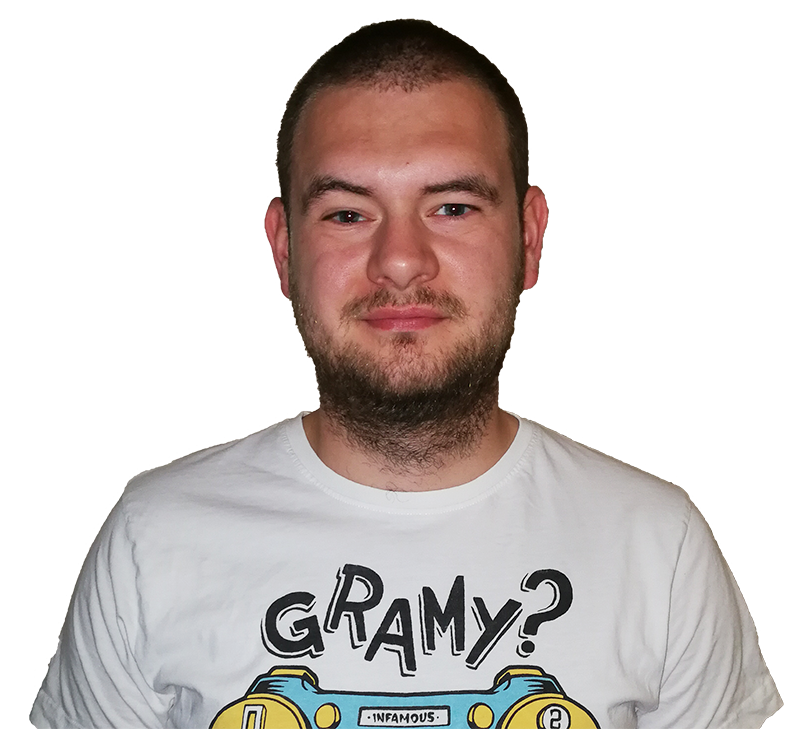
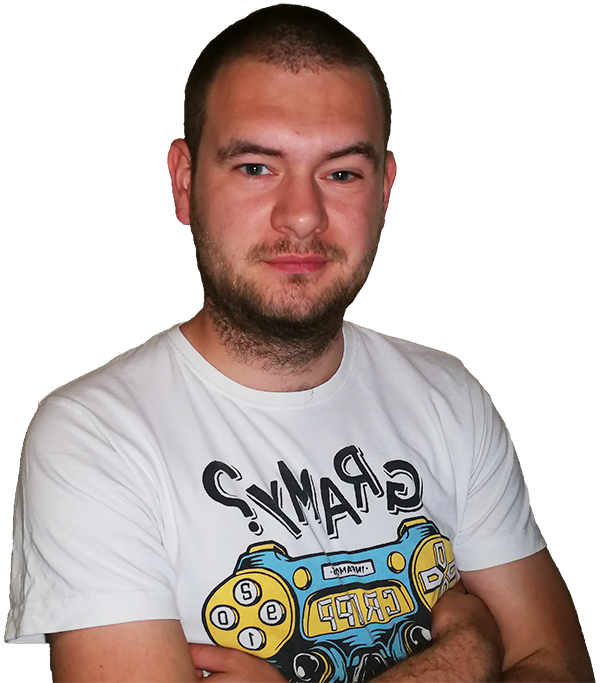
Add media queries for high resolution and change hero img

diff --git a/Frontend/src/styles/global.css b/Frontend/src/styles/global.css
@@ -203,6 +203,61 @@ p {
   }
 }
 
+/* High resolutions */
+@media screen and (min-width: 2048px) {
+  div.navLogo {
+    width: 16rem;
+  }
+  .navLinks li {
+    font-size: 2.2rem;
+  }
+  aside.hero-info h2 {
+    font-size: 3.5rem;
+  }
+  aside.hero-info p {
+    font-size: 1.8rem;
+  }
+  .buttons-conteiner a {
+    font-size: 2.2rem;
+    line-height: 3rem;
+  }
+  .social-links.hero-links li a {
+    font-size: 3.5rem;
+  }
+}
+@media screen and (min-width: 4096px) {
+  .navCenter {
+    margin-top: 5vh;
+    max-width: 60%;
+  }
+  div.navLogo {
+    width: 20rem;
+  }
+  .navLinks li {
+    font-size: 3.4rem;
+  }
+  aside.hero-info h2 {
+    font-size: 5rem;
+  }
+  aside.hero-info p {
+    font-size: 2.8rem;
+  }
+  a.btn {
+    border-radius: 55px;
+  }
+  .buttons-conteiner a {
+    font-size: 3.4rem;
+    line-height: 4.2rem;
+    padding: 20px 28px;
+  }
+  ul.social-links {
+    width: 25rem;
+  }
+  .social-links.hero-links li a {
+    font-size: 6rem;
+  }
+}
+
 /* SIDEBAR */
 
 .sidebar {
@@ -351,6 +406,14 @@ p {
 
 .social-links.hero-links {
   font-size: 2.4rem;
+  transition: 0.2s;
+  margin: 0 auto;
+}
+.social-links.hero-links li a {
+  color: var(--txtLight2);
+}
+.social-links.hero-links li a:hover {
+  color: var(--btnDark);
 }
 @media screen and (min-width: 410px) {
   h2 {
@@ -361,12 +424,6 @@ p {
   }
   .buttons-conteiner {
     justify-content: space-around;
-  }
-  .social-links.hero-links {
-    margin: 0 auto;
-  }
-  .social-links.hero-links li a {
-    color: var(--txtLight2);
   }
 }
 
@@ -405,7 +462,7 @@ p {
     align-items: center;
   }
   .hero-img {
-    width: 30vw;
+    width: 30%;
     display: block;
   }
   h2 {
@@ -418,4 +475,6 @@ p {
     font-size: 1.5rem;
     line-height: 2rem;
   }
+}
+@media screen and (min-width: 1921px) {
 }

diff --git a/Frontend/src/components/organisms/HeroSection.js b/Frontend/src/components/organisms/HeroSection.js
@@ -13,9 +13,9 @@ const HeroSection = ({ styleClass }) => {
       <HeroImage />
       <aside className="hero-info">
         <h2>Hi, I'm Michał Nitka</h2>
-        <p>I looking for my first job as junior front-end developer</p>
+        <p>I'm looking for my first job as a junior front-end developer</p>
         <p>
-          Hope you will find here, your next employee{" "}
+          Hope you will find your next employee here{" "}
           <span role="img" aria-label="winking face emoji">
             😉
           </span>

diff --git a/Frontend/src/components/atoms/SocialLinks.js b/Frontend/src/components/atoms/SocialLinks.js
@@ -17,7 +17,12 @@ const data = [
 const SocialLinks = data.map(link => {
   return (
     <li key={link.id}>
-      <a href={link.url} className="socialLink">
+      <a
+        href={link.url}
+        className="socialLink"
+        rel="noreferrer"
+        target="_blank"
+      >
         {link.icon}
       </a>
     </li>
